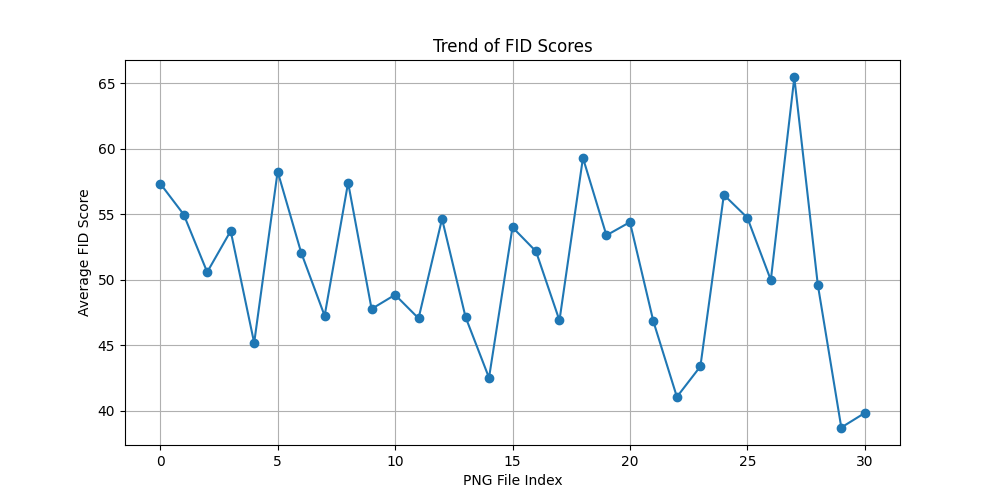
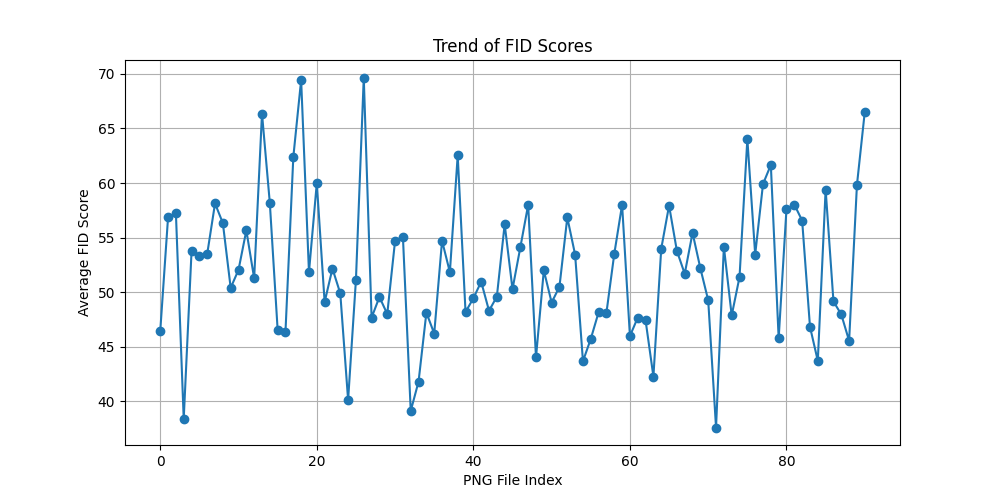
updated is/fid graph for rel gan

diff --git a/relativistic_gan/generate_more_rel_gan.py b/relativistic_gan/generate_more_rel_gan.py
@@ -1,0 +1,91 @@
+import argparse
+import os
+import numpy as np
+import math
+
+import torchvision.transforms as transforms
+from torchvision.utils import save_image
+
+from torch.utils.data import DataLoader
+from torchvision import datasets
+from torch.autograd import Variable
+
+import torch.nn as nn
+import torch.nn.functional as F
+import torch
+
+
+class Generator(nn.Module):
+    def __init__(self):
+        super(Generator, self).__init__()
+
+        self.init_size = 128 // 4
+        self.l1 = nn.Sequential(nn.Linear(100, 128 * self.init_size ** 2))
+
+        self.conv_blocks = nn.Sequential(
+            nn.BatchNorm2d(128),
+            nn.Upsample(scale_factor=2),
+            nn.Conv2d(128, 128, 3, stride=1, padding=1),
+            nn.BatchNorm2d(128, 0.8),
+            nn.LeakyReLU(0.2, inplace=True),
+            nn.Upsample(scale_factor=2),
+            nn.Conv2d(128, 64, 3, stride=1, padding=1),
+            nn.BatchNorm2d(64, 0.8),
+            nn.LeakyReLU(0.2, inplace=True),
+            nn.Conv2d(64, 3, 3, stride=1, padding=1),
+            nn.Tanh(),
+        )
+
+    def forward(self, z):
+        out = self.l1(z)
+        out = out.view(out.shape[0], 128, self.init_size, self.init_size)
+        img = self.conv_blocks(out)
+        return img
+
+
+class Discriminator(nn.Module):
+    def __init__(self):
+        super(Discriminator, self).__init__()
+
+        def discriminator_block(in_filters, out_filters, bn=True):
+            block = [nn.Conv2d(in_filters, out_filters, 3, 2, 1), nn.LeakyReLU(0.2, inplace=True), nn.Dropout2d(0.25)]
+            if bn:
+                block.append(nn.BatchNorm2d(out_filters, 0.8))
+            return block
+
+        self.model = nn.Sequential(
+            *discriminator_block(3, 16, bn=False),
+            *discriminator_block(16, 32),
+            *discriminator_block(32, 64),
+            *discriminator_block(64, 128),
+        )
+
+        # The height and width of downsampled image
+        ds_size = 128 // 2 ** 4
+        self.adv_layer = nn.Sequential(nn.Linear(128 * ds_size ** 2, 1))
+
+    def forward(self, img):
+        out = self.model(img)
+        out = out.view(out.shape[0], -1)
+        validity = self.adv_layer(out)
+
+        return validity
+
+
+device = torch.device("cuda" if torch.cuda.is_available() else "cpu")
+generator = Generator().to(device)
+discriminator = Discriminator().to(device)
+optimizer_G = torch.optim.Adam(generator.parameters(), lr=0.0002, betas=(0.5, 0.999))
+optimizer_D = torch.optim.Adam(discriminator.parameters(), lr=0.0002, betas=(0.5, 0.999))
+checkpoint = torch.load('saved_models/checkpoint.pth')
+
+generator.load_state_dict(checkpoint['gen_state_dict'])
+discriminator.load_state_dict(checkpoint['dis_state_dict'])
+optimizer_G.load_state_dict(checkpoint['gen_opt'])
+optimizer_D.load_state_dict(checkpoint['dis_opt'])
+Tensor = torch.cuda.FloatTensor if torch.cuda.is_available() else torch.FloatTensor
+
+for i in range(60):
+    z = Variable(Tensor(np.random.normal(0, 1, (64, 100))))
+    gen_imgs = generator(z)
+    save_image(gen_imgs.data[:25], "images/%d.png" % i, nrow=5, normalize=True)
